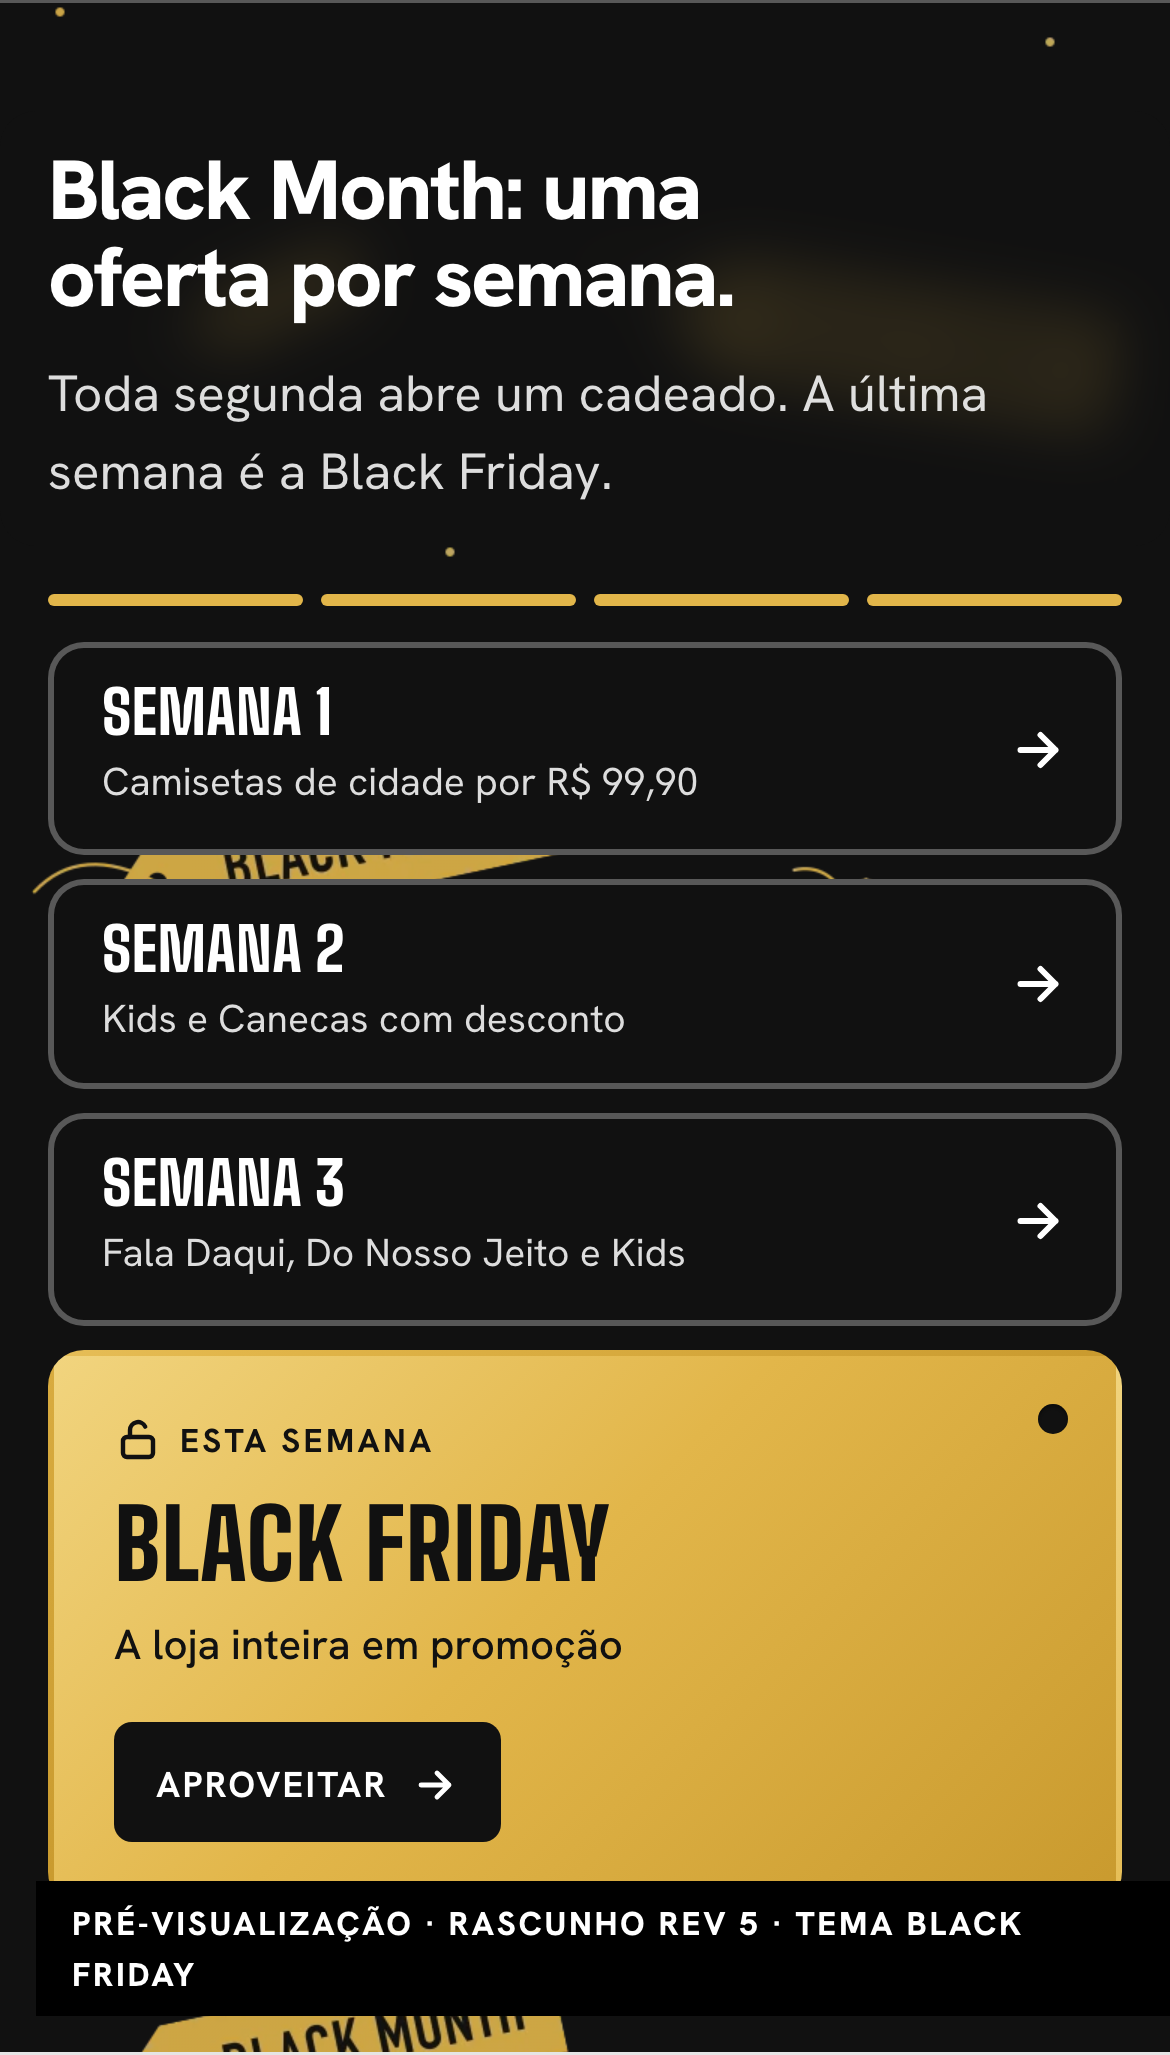
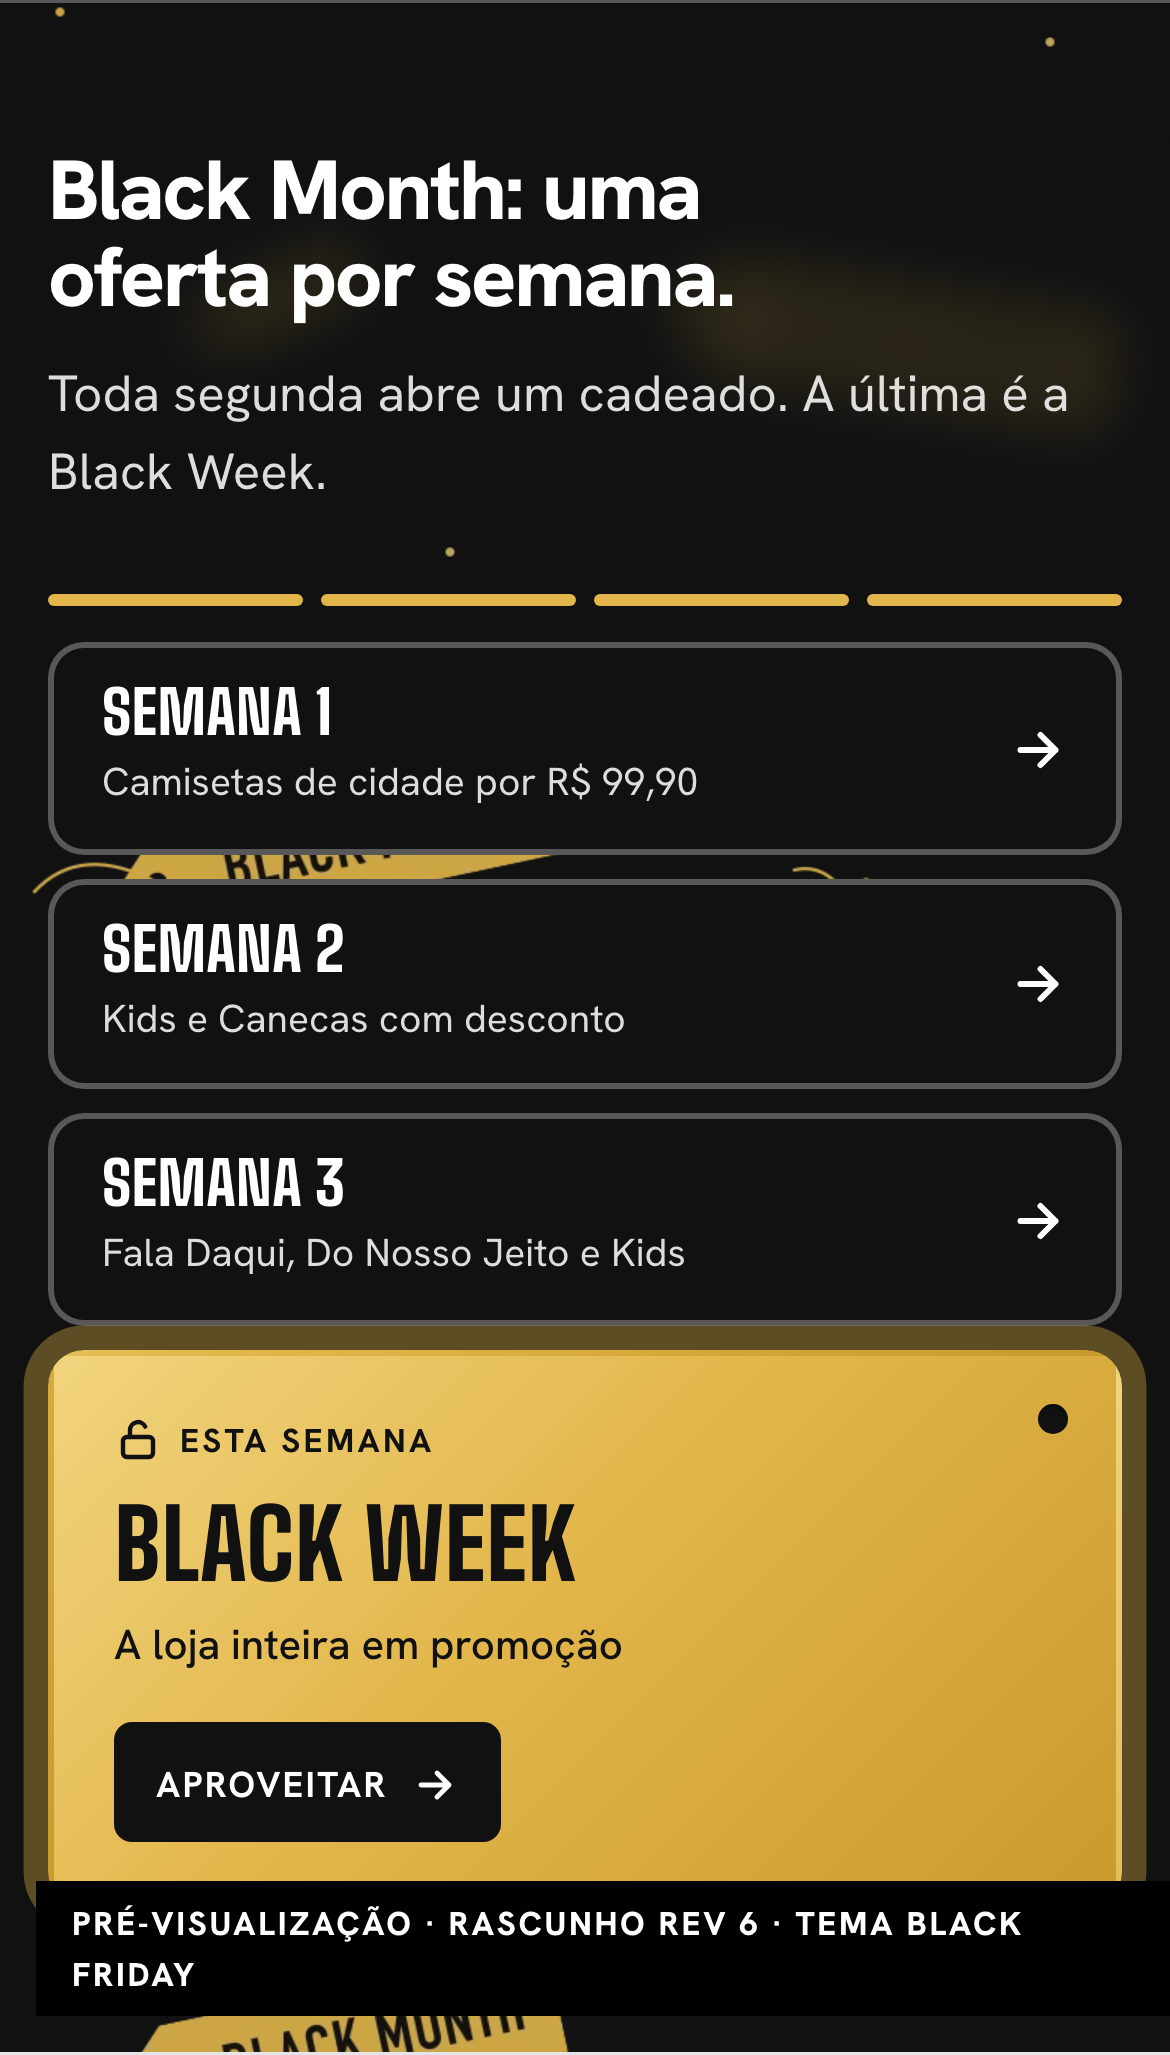
style(storefront): checkpoints, "Esta semana" em amarelo e pulso mais forte no card e no botão
- "Esta semana" na cor da campanha, como a borda e o botão do card.
- O "Ver ofertas" da semana atual pulsa no mesmo ritmo do card, com um halo menor.
- O pulso ficou mais forte: halo de 16 px no card e 10 px no botão, mais opaco, ciclo de 2,2 s.
- Prints atualizados (o último bloco da prévia agora se chama Black Week).

diff --git a/src/components/home/WeeklyCheckpoints.tsx b/src/components/home/WeeklyCheckpoints.tsx
@@ -50,7 +50,7 @@ const NAME = "block font-display font-extrabold uppercase leading-[0.95] trackin
 /** Every card: opaque (the ground's pattern never runs under a word), 12px corners, the same border weight in every state. */
 const SHELL = "rounded-xl border-2";
 
-/** The marker of the week running now (still: the card itself breathes, `.cp-pulse`). */
+/** The marker of the week running now (still: the card and its button breathe, `.cp-pulse` / `.cp-pulse-sm`). */
 const Dot = () => <span aria-hidden="true" className="h-2 w-2 rounded-full" style={{ background: HIGHLIGHT }} />;
 
 /**
@@ -132,7 +132,8 @@ export function WeeklyCheckpoints({ anchor, headingId, title, subtitle, items }:
               return (
                 <li key={i}>
                   <Card href={href} external={it.external} current className={`flex h-full flex-col bg-[var(--card-fill)] p-5 ${SHELL}`} style={{ borderColor: HIGHLIGHT }}>
-                    <span className="flex items-center justify-between gap-3">
+                    {/* "Esta semana" in the campaign's yellow, like the card's edge and its button. */}
+                    <span className="flex items-center justify-between gap-3" style={{ color: HIGHLIGHT }}>
                       <Status it={it} />
                       <Dot />
                     </span>
@@ -140,7 +141,7 @@ export function WeeklyCheckpoints({ anchor, headingId, title, subtitle, items }:
                     {it.caption && <span className="mt-1.5 block max-w-[34ch] text-[0.875rem] leading-snug text-ink-soft">{it.caption}</span>}
                     {href && (
                       <span className="mt-auto block pt-4">
-                        <span className="inline-flex h-10 items-center gap-2 rounded-md px-3.5 pt-px text-[0.75rem] font-bold uppercase tracking-[0.06em] transition-[filter] duration-200 group-hover:brightness-110" style={{ background: HIGHLIGHT, color: NEAR_BLACK }}>
+                        <span className="cp-pulse-sm inline-flex h-10 items-center gap-2 rounded-md px-3.5 pt-px text-[0.75rem] font-bold uppercase tracking-[0.06em] transition-[filter] duration-200 group-hover:brightness-110" style={{ background: HIGHLIGHT, color: NEAR_BLACK }}>
                           {it.cta}
                           <Arrow />
                         </span>

diff --git a/src/app/globals.css b/src/app/globals.css
@@ -609,14 +609,21 @@ a:hover > .photo img,
   background-color: var(--plate-solid, transparent);
 }
 /* "Checkpoints semanais" (components/home/WeeklyCheckpoints.tsx): the week running now breathes, a yellow ring that grows from the card's edge and
-   fades. Only for whoever has not asked the system for less motion. */
+   fades, and its button with a smaller one, on the same beat. Only for whoever has not asked the system for less motion. */
 @keyframes cp-pulse {
-  0% { box-shadow: 0 0 0 0 rgb(226 182 74 / 0.5); }
+  0% { box-shadow: 0 0 0 0 rgb(226 182 74 / 0.75); }
+  70%, 100% { box-shadow: 0 0 0 16px rgb(226 182 74 / 0); }
+}
+@keyframes cp-pulse-sm {
+  0% { box-shadow: 0 0 0 0 rgb(226 182 74 / 0.85); }
   70%, 100% { box-shadow: 0 0 0 10px rgb(226 182 74 / 0); }
 }
 @media (prefers-reduced-motion: no-preference) {
   .cp-pulse {
-    animation: cp-pulse 2.6s cubic-bezier(0.16, 1, 0.3, 1) infinite;
+    animation: cp-pulse 2.2s cubic-bezier(0.16, 1, 0.3, 1) infinite;
+  }
+  .cp-pulse-sm {
+    animation: cp-pulse-sm 2.2s cubic-bezier(0.16, 1, 0.3, 1) infinite;
   }
 }
 .own-surface {
